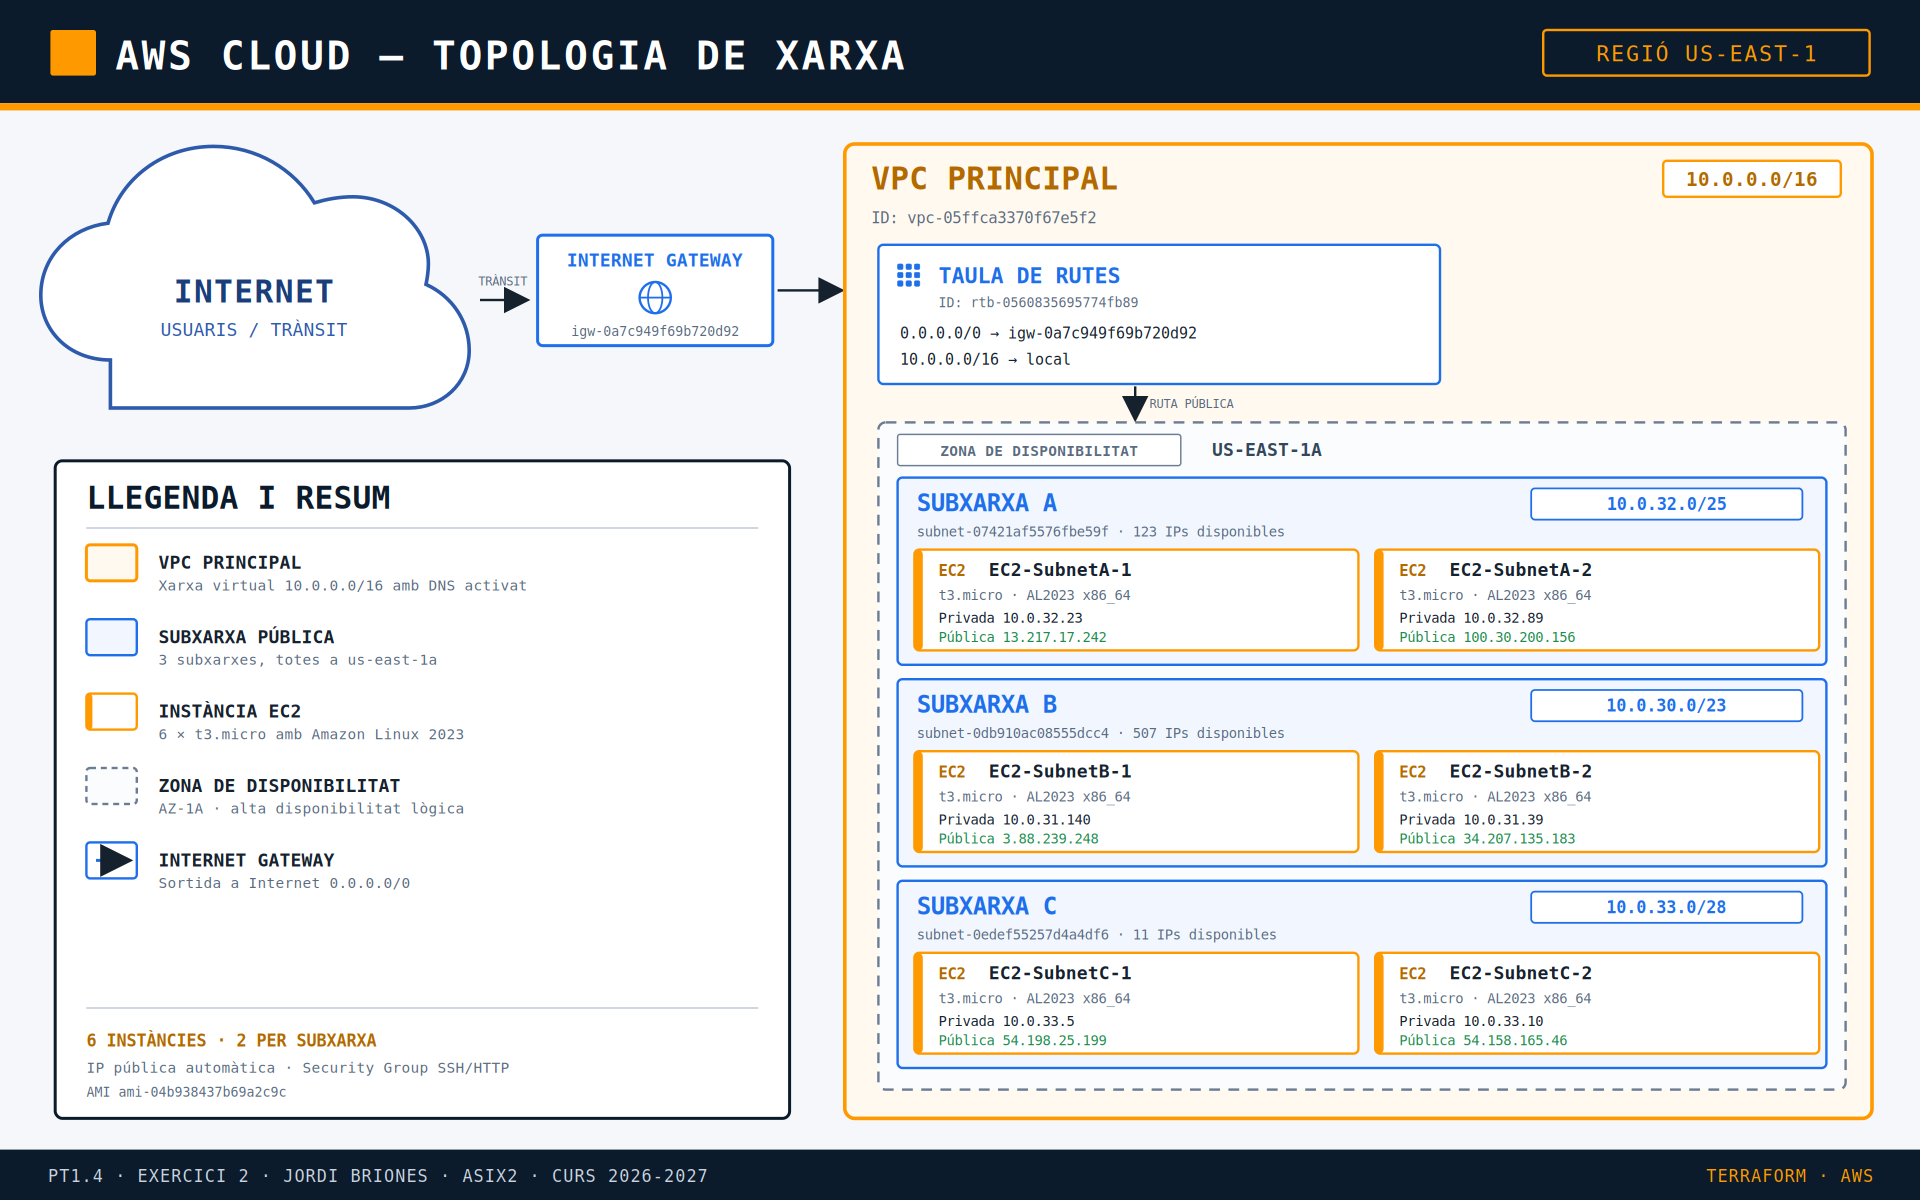
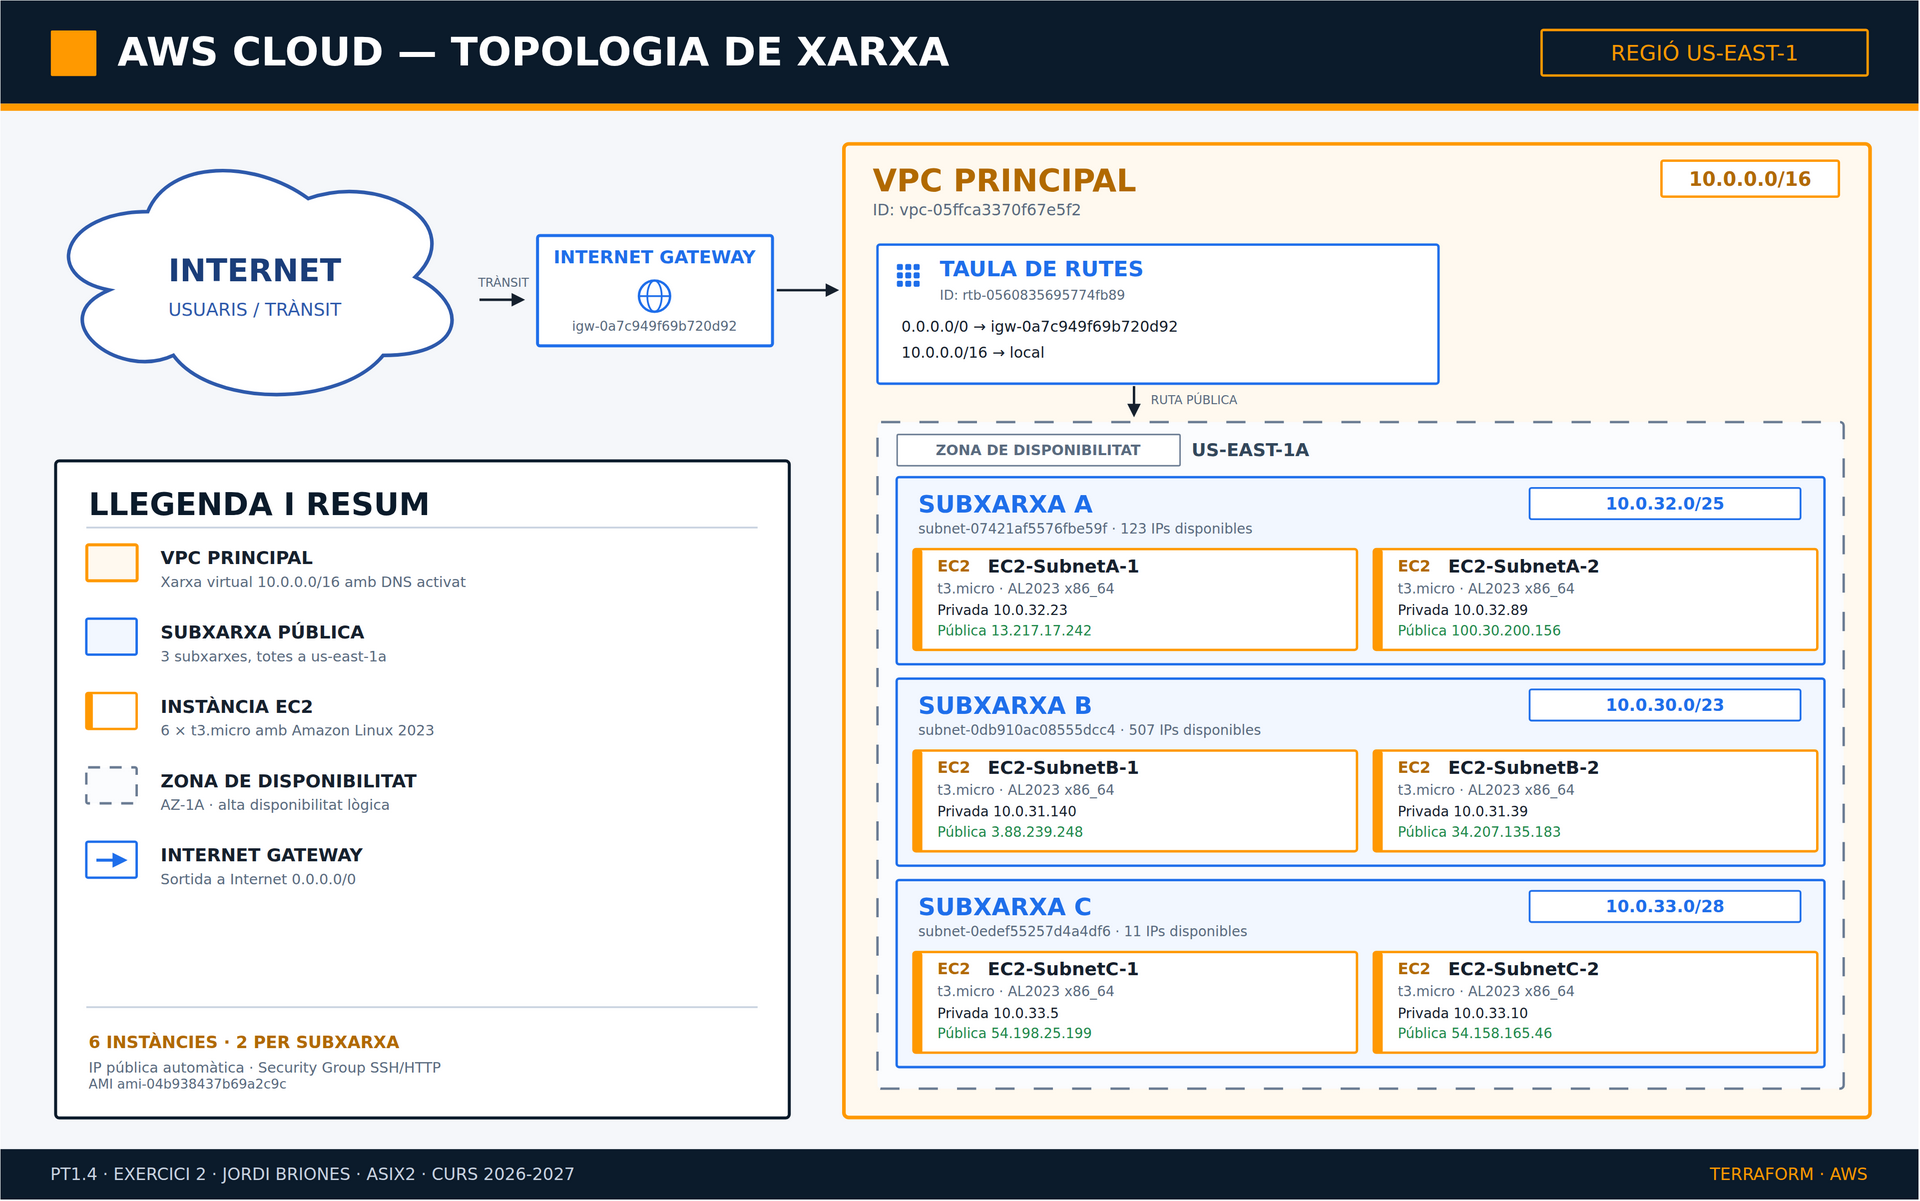
Afegeix la topologia editable de draw.io i exporta el PNG

diff --git a/pt1-4-ex2/README.md b/pt1-4-ex2/README.md
@@ -42,6 +42,7 @@ dependre de clics a la interfície gràfica.
 practiquescloud/
 └── pt1-4-ex2/
     ├── assets/
+    │   ├── topologia.drawio
     │   ├── topologia.png
     │   ├── vpc_subnets.png
     │   └── ec2_instances.png
@@ -80,6 +81,10 @@ Gateway.
 ### Topologia de xarxa
 
 ![Topologia de xarxa](assets/topologia.png)
+
+> El diagrama s'ha dissenyat amb **draw.io**. El fitxer editable és
+> [`assets/topologia.drawio`](assets/topologia.drawio) i la imatge exportada en
+> format PNG és [`assets/topologia.png`](assets/topologia.png).
 
 ```text
 Internet
